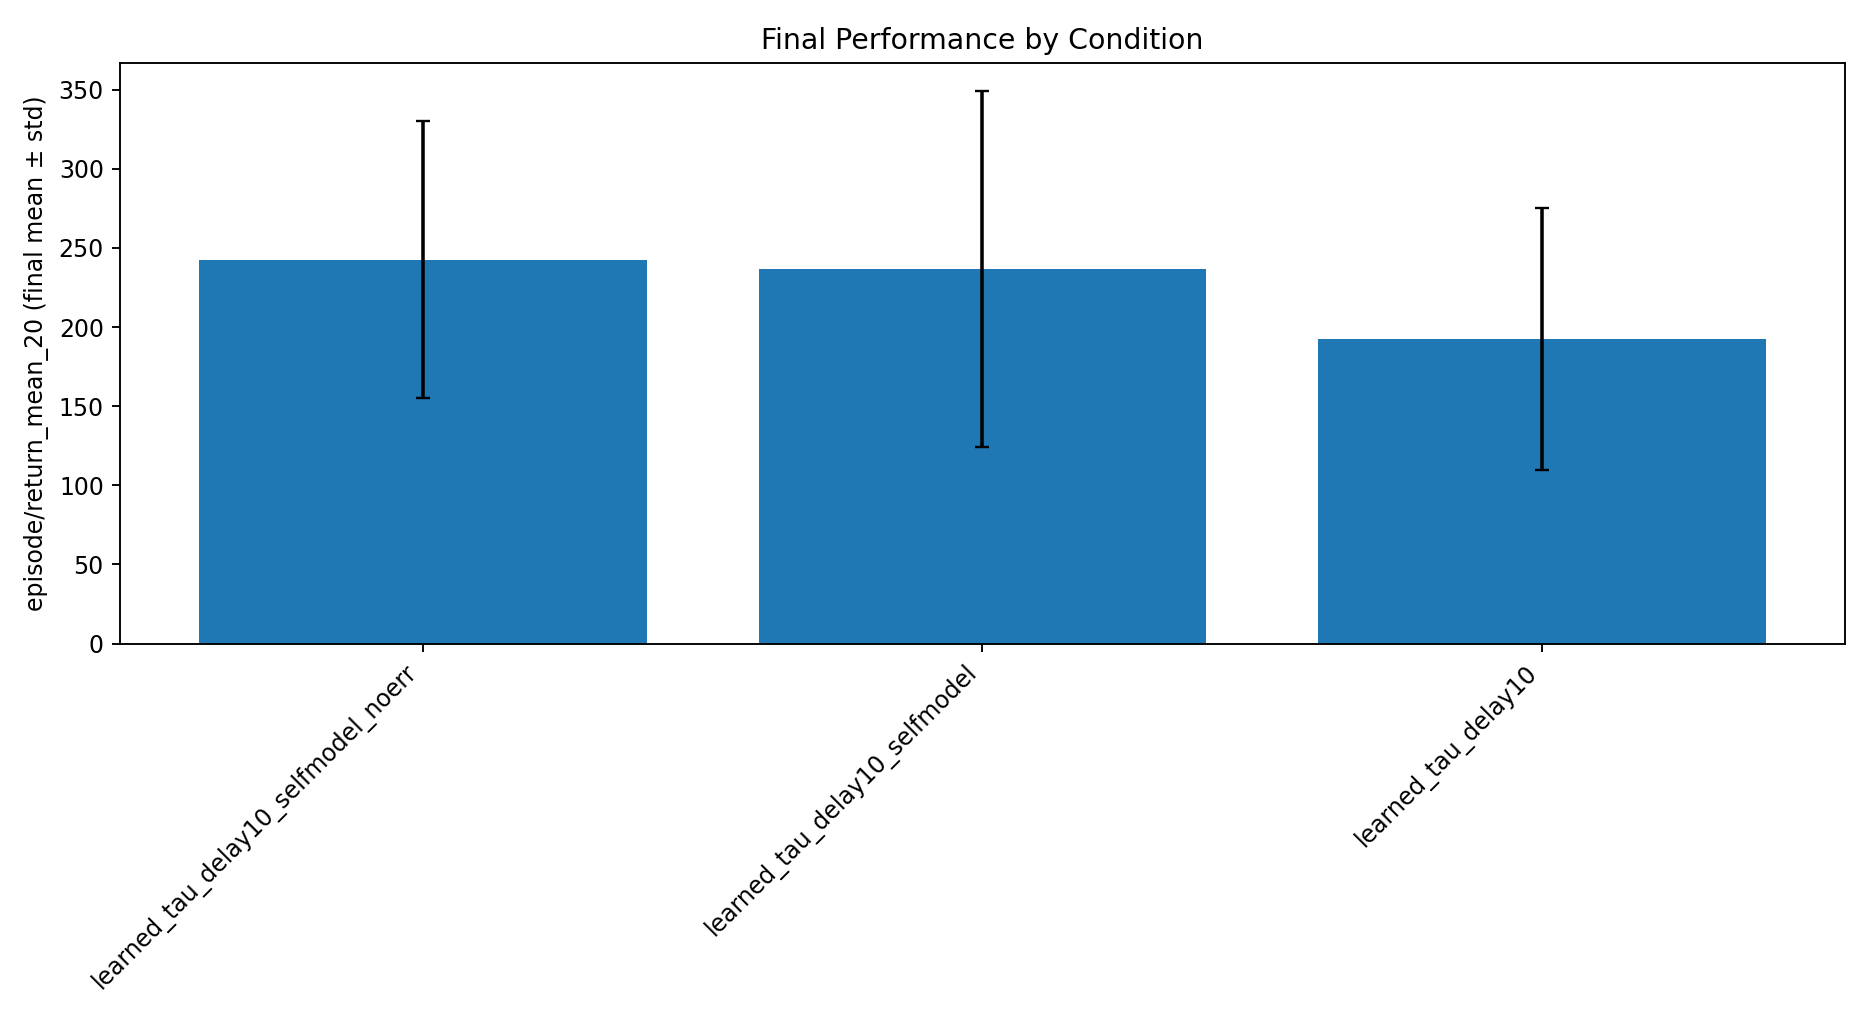
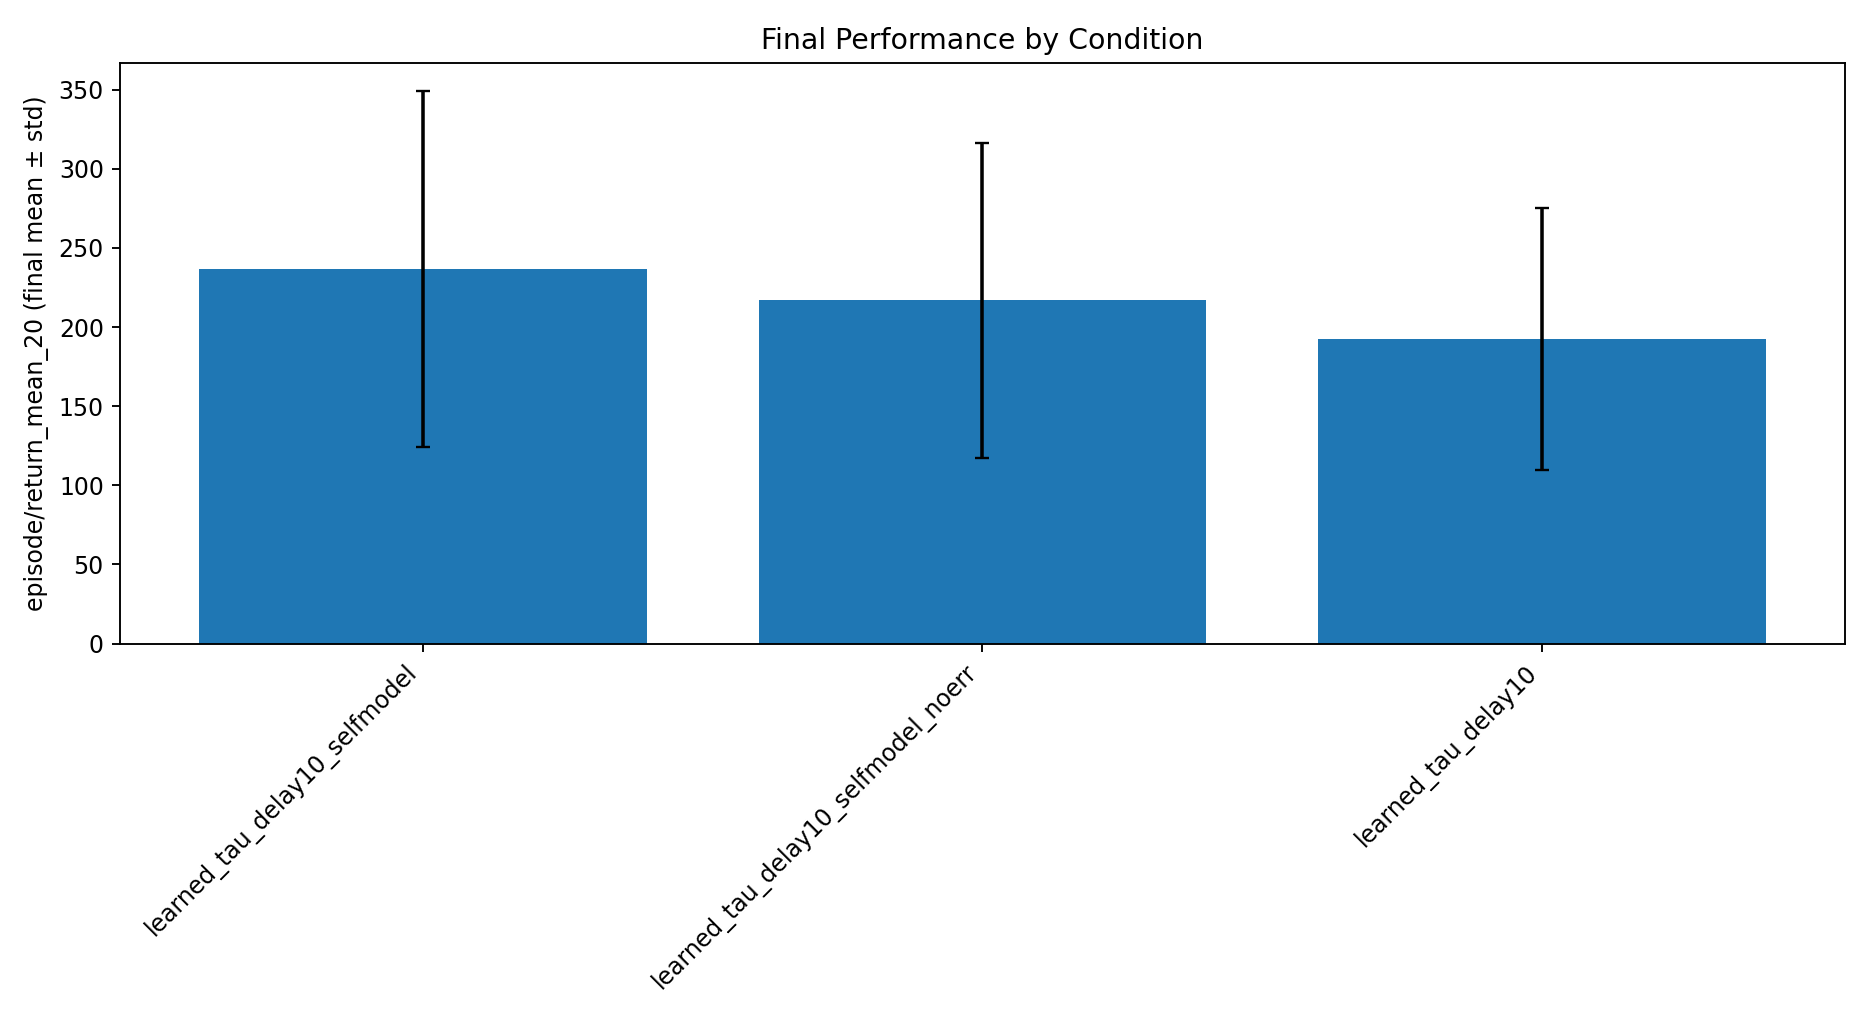
stage2_warmup_noerr_seed30_check

diff --git a/docs/stage2_delay_warmup_both20k_noerr_paired_2026-02-16.tex b/docs/stage2_delay_warmup_both20k_noerr_paired_2026-02-16.tex
@@ -2,8 +2,6 @@
 \toprule
 anchor & comparator & metric & n_pairs & delta_mean & delta_std & ci95_low & ci95_high & delta_min & delta_max & n_positive & n_negative & n_zero \\
 \midrule
-learned_tau_delay10_selfmodel & learned_tau_delay10 & final_mean & 30 & 44.040 & 112.183 & 3.169 & 84.658 & -162.665 & 308.600 & 19 & 11 & 0 \\
-learned_tau_delay10_selfmodel & learned_tau_delay10 & auc & 30 & 13.615 & 72.492 & -11.065 & 40.145 & -112.604 & 228.731 & 15 & 15 & 0 \\
 learned_tau_delay10_selfmodel & learned_tau_delay10_selfmodel_noerr & final_mean & 30 & 19.698 & 132.579 & -28.252 & 65.353 & -257.350 & 259.405 & 18 & 12 & 0 \\
 learned_tau_delay10_selfmodel & learned_tau_delay10_selfmodel_noerr & auc & 30 & 4.307 & 79.878 & -23.792 & 32.134 & -174.938 & 208.189 & 15 & 15 & 0 \\
 \bottomrule

diff --git a/docs/stage2_results_2026-02-16.md b/docs/stage2_results_2026-02-16.md
@@ -242,18 +242,22 @@ Settings compared:
 Machine-readable summary:
 
 - `docs/stage2_warmup_search_2026-02-16.csv`
+- `docs/stage2_delay_warmup_both20k_paired_2026-02-16.csv`
+- `docs/stage2_delay_warmup_both20k_noerr_paired_2026-02-16.csv`
 
 Seed-30 confirm (`both20k`, root `runs/sweeps/stage2_delay_delaybiased_warmup_both20k_v1`):
 
 - Paired final delta (`selfmodel - learned`, `n_pairs=30`): `+44.040` (CI `[3.169, 84.658]`)
 - Paired AUC delta (`selfmodel - learned`, `n_pairs=30`): `+13.615` (CI `[-11.065, 40.145]`)
+- Paired final delta (`selfmodel - noerr`, `n_pairs=30`): `+19.698` (CI `[-28.252, 65.353]`)
+- Paired AUC delta (`selfmodel - noerr`, `n_pairs=30`): `+4.307` (CI `[-23.792, 32.134]`)
 
 Interpretation:
 
 - With statistical power increased to 30 paired seeds, `selfmodel - learned` final performance is now positive with CI lower bound above zero.
 - This fixes the main performance claim for warmup on `delay=10` under the current protocol.
 - AUC remains direction-positive but not conclusive at 95% CI.
-- We did not expand `noerr` for warmup to 30 seeds in this pass; causal evidence remains anchored in the prior non-warmup noerr ablation.
+- Under warmup, `selfmodel - noerr` is direction-positive but not conclusive at 95% CI, so causal claims for warmup remain weaker than the non-warmup noerr ablation.
 - `tauonly50k` and `lambdaonly50k` both underperformed, indicating that balanced short warmup is the stable direction rather than one-sided long warmup.
 
 ## Figures
